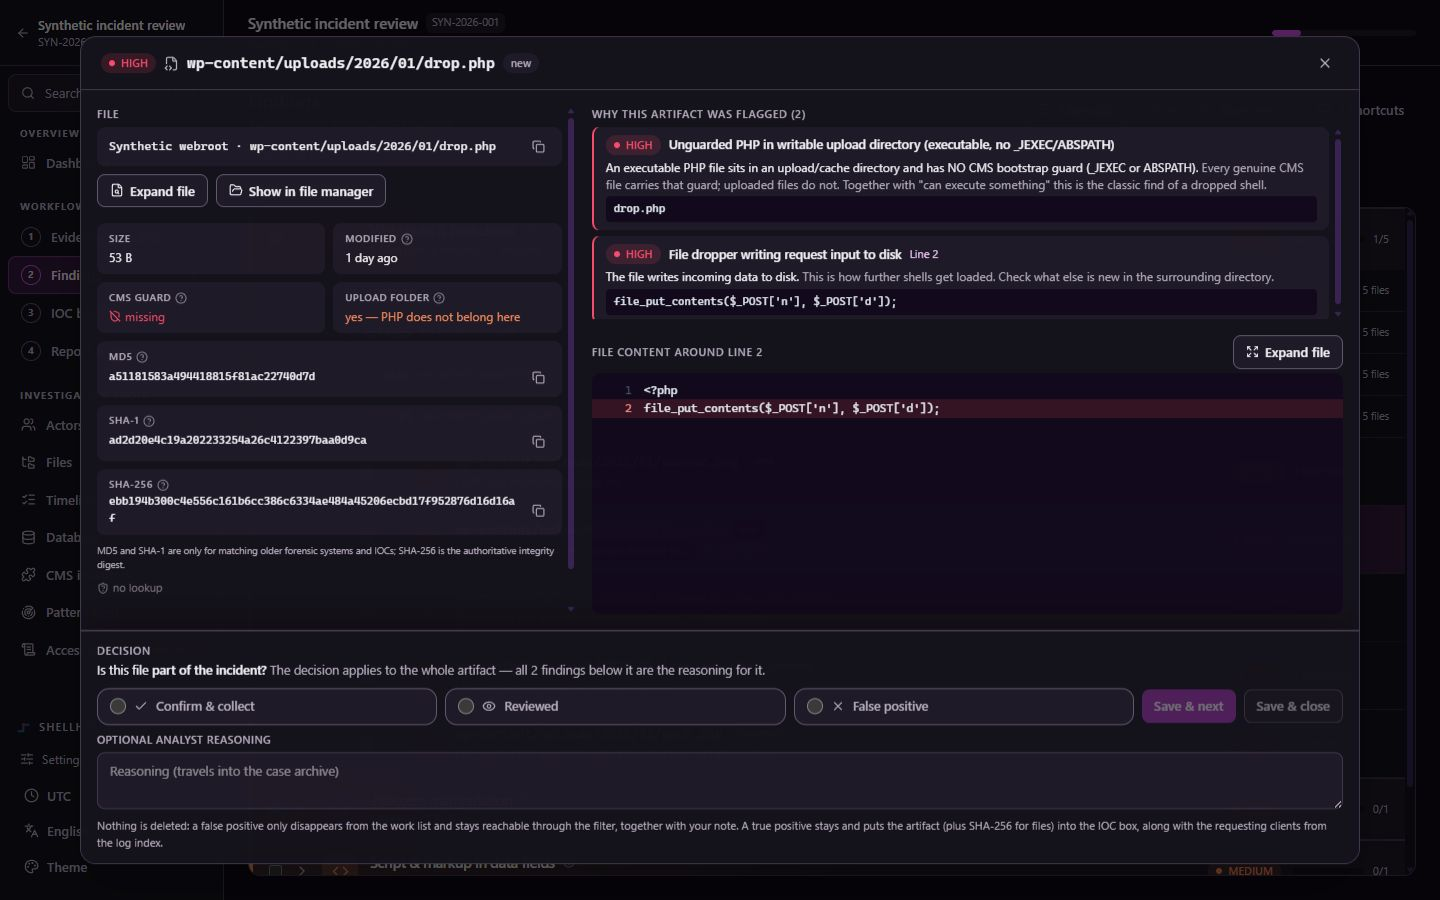
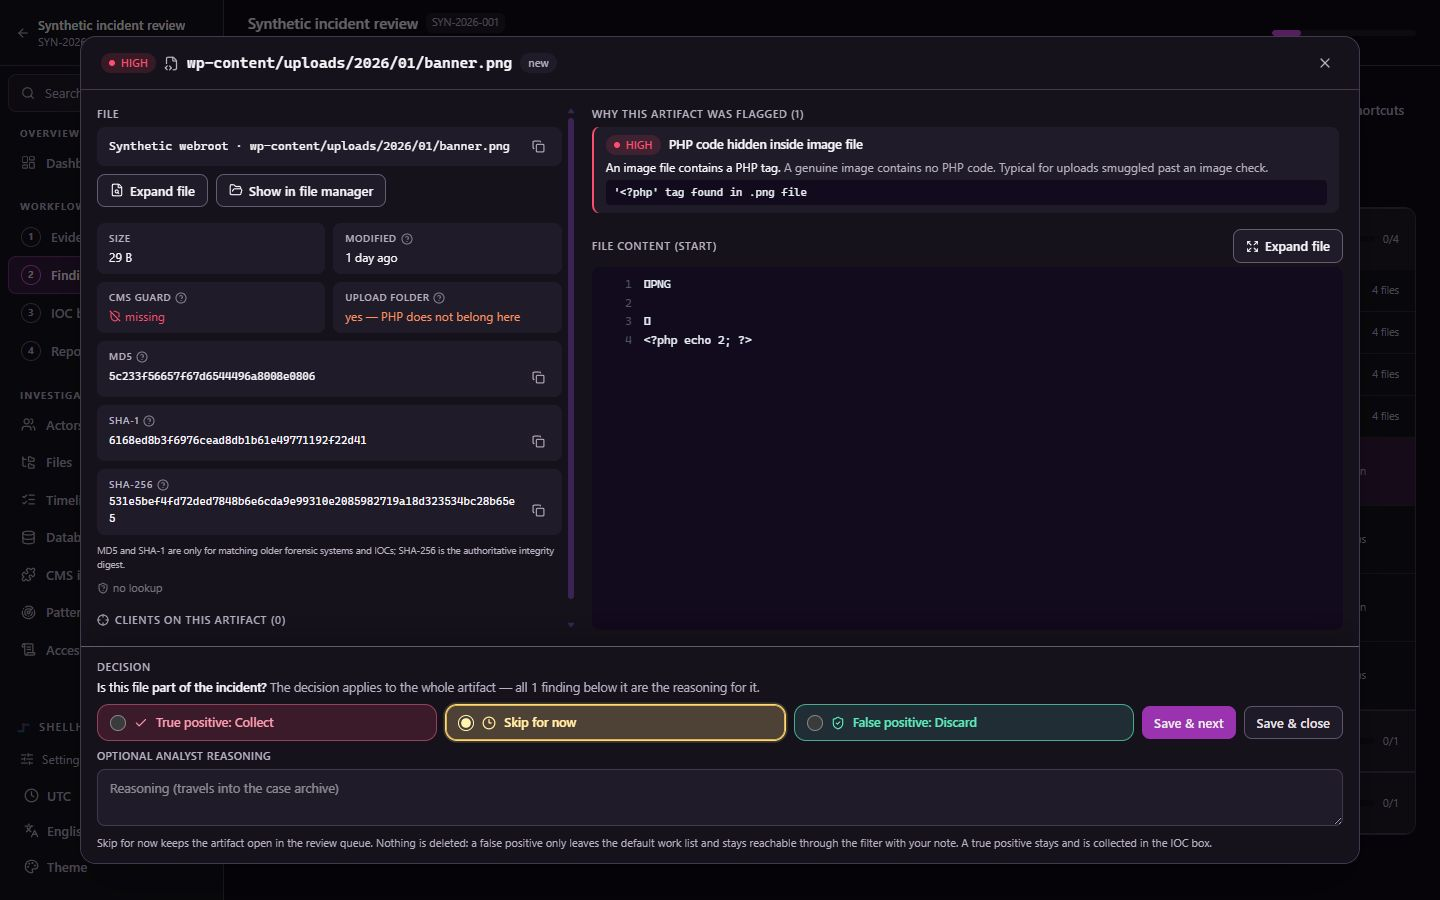
clarify artifact decision choices

diff --git a/web/src/i18n/de.ts b/web/src/i18n/de.ts
@@ -220,7 +220,7 @@ export const de: Record<string, string> = {
   'dashboard.action.evidence.sub': 'Quellen registrieren und die erste Analyse starten.',
   'dashboard.action.new': '{n} neue Artefakte prüfen',
   'dashboard.action.new.sub': 'Mit noch nicht gesichteten Hinweisen beginnen.',
-  'dashboard.action.reviewed': '{n} gesichtete Artefakte entscheiden',
+  'dashboard.action.reviewed': '{n} übersprungene Artefakte entscheiden',
   'dashboard.action.reviewed.sub': 'Offene Bewertungen zu einer endgültigen Entscheidung führen.',
   'dashboard.action.report': 'Bericht erstellen und abschließen',
   'dashboard.action.report.sub': 'Abschlussreife prüfen und die Übergabedatei vorbereiten.',
@@ -358,12 +358,12 @@ export const de: Record<string, string> = {
 
   // --- triage --------------------------------------------------------------
   'triage.new': 'neu',
-  'triage.reviewed': 'gesichtet',
+  'triage.reviewed': 'vorerst übersprungen',
   'triage.confirmed': 'True Positive',
   'triage.dismissed': 'False Positive',
   'triage.new.what': 'Noch niemand hat sich dieses Artefakt angesehen.',
-  'triage.reviewed.what': 'Angesehen, aber noch nicht entschieden.',
-  'triage.reviewed.why': 'Für alles, was später mit mehr Kontext nochmal zu beurteilen ist.',
+  'triage.reviewed.what': 'Angesehen, aber bewusst offengelassen.',
+  'triage.reviewed.why': 'Für Artefakte, die du später mit mehr Kontext erneut beurteilen möchtest.',
   'triage.confirmed.what': 'True Positive — das Artefakt ist real und Teil des Vorfalls.',
   'triage.confirmed.why': 'Bleibt in der Liste stehen, nur abgeblendet: es ist das Ergebnis, aus dem der Bericht entsteht. Legt Artefakt und Hash in die IOC Box und holt die anfragenden Clients aus dem Log-Index.',
   'triage.dismissed.what': 'False Positive — geprüft und nicht relevant.',
@@ -1066,11 +1066,11 @@ export const de: Record<string, string> = {
   'artifact.question.scope': 'Die Entscheidung gilt für das ganze Artefakt — alle {n} {findings} darunter sind die Begründung dafür.',
   'artifact.finding.one': 'Finding',
   'artifact.finding.many': 'Findings',
-  'artifact.truePositiveCollect': 'Bestätigen & sammeln',
-  'artifact.reviewedAction': 'Geprüft',
-  'artifact.falsePositiveAction': 'False Positive',
+  'artifact.truePositiveCollect': 'True Positive: Sammeln',
+  'artifact.reviewedAction': 'Vorerst überspringen',
+  'artifact.falsePositiveAction': 'False Positive: Verwerfen',
   'artifact.lastDecided': 'zuletzt entschieden',
-  'artifact.triage.explain': 'Nichts wird gelöscht: ein False Positive verschwindet nur aus der Arbeitsliste und bleibt mit deiner Notiz über den Filter erreichbar. True Positive bleibt stehen und legt das Artefakt (+ SHA-256 bei Dateien) in die IOC Box, samt der anfragenden Clients aus dem Log-Index.',
+  'artifact.triage.explain': 'Vorerst überspringen lässt das Artefakt offen in der Prüfliste. Nichts wird gelöscht: ein False Positive verlässt nur die Standard-Arbeitsliste und bleibt mit deiner Notiz über den Filter erreichbar. Ein True Positive bleibt stehen und wird in der IOC Box gesammelt.',
   'artifact.viewFile': 'Datei ansehen (Raw & Hex)',
   'artifact.expandFile': 'Datei vergrößern',
   'artifact.backToEvidence': 'Zurück zu den Belegen',
@@ -1178,12 +1178,12 @@ export const de: Record<string, string> = {
   'files.review.title': 'Manuelle Datei-Sichtung',
   'files.review.sub': 'Prüfe Dateiinhalt, Hashes und Dateisystem-Metadaten Datei für Datei. Vorhandene Scanner-Beobachtungen bleiben als Kontext sichtbar.',
   'files.metric.files': 'Dateien hier',
-  'files.metric.reviewed': 'gesichtet',
+  'files.metric.reviewed': 'übersprungen',
   'files.metric.webshells': 'Webshells',
   'files.queue.title': 'Dateien in diesem Ordner',
   'files.queue.open': '{name} prüfen. Aktueller Status: {state}',
   'files.review.unreviewed': 'Ungesichtet',
-  'files.review.reviewed': 'Gesichtet',
+  'files.review.reviewed': 'Vorerst übersprungen',
   'files.review.webshell': 'Webshell',
   'files.review.notWebshell': 'Keine Webshell',
   'files.review.select': 'Datei zum Prüfen auswählen',
@@ -1210,7 +1210,7 @@ export const de: Record<string, string> = {
   'files.decision.title': 'Analystenentscheidung',
   'files.decision.sub': 'Die Entscheidung wird getrennt von automatischen Erkennungen gespeichert und bleibt im Fall nachvollziehbar.',
   'files.decision.note': 'Begründung und beobachtete Evidenz…',
-  'files.decision.reviewed': 'Gesichtet — offen lassen',
+  'files.decision.reviewed': 'Vorerst übersprungen — offen lassen',
   'files.decision.notWebshell': 'Keine Webshell',
   'files.decision.webshell': 'Als Webshell markieren',
   'files.decision.reasonRequired': 'Für eine abschließende Entscheidung ist eine Begründung erforderlich.',

diff --git a/web/src/components/ArtifactWindow.tsx b/web/src/components/ArtifactWindow.tsx
@@ -8,8 +8,8 @@ import { useEffect, useRef, useState } from 'react'
 import { useMutation, useQuery } from '@tanstack/react-query'
 import clsx from 'clsx'
 import {
-  ArrowLeft, Bug, Check, Crosshair, Eye, Expand, FileSearch, FolderOpen,
-  LoaderCircle, ShieldCheck, ShieldOff, X,
+  ArrowLeft, Bug, Check, Clock3, Crosshair, Expand, FileSearch, FolderOpen,
+  LoaderCircle, ShieldCheck, ShieldOff,
 } from 'lucide-react'
 import { KIND_ICON } from '../artifactKinds'
 import {
@@ -451,13 +451,26 @@ export function ArtifactWindow({ slug, artifact, roots, collected, onClose,
     )}
   </>
 
-  const decisions: Array<{ state: Decision; label: string; icon: typeof Check; selected: string }> = [
+  const decisions: Array<{
+    state: Decision
+    label: string
+    icon: typeof Check
+    tone: string
+    text: string
+    background: string
+    selectedBackground: string
+  }> = [
     { state: 'confirmed', label: tr('artifact.truePositiveCollect'), icon: Check,
-      selected: 'border-[var(--incident)] bg-[var(--danger-soft)] text-[var(--danger-text)]' },
-    { state: 'reviewed', label: tr('artifact.reviewedAction'), icon: Eye,
-      selected: 'border-[var(--sev-low)] bg-[var(--review-soft)] text-[var(--review-text)]' },
-    { state: 'dismissed', label: tr('artifact.falsePositiveAction'), icon: X,
-      selected: 'border-[var(--accent)] bg-[var(--panel-raised)] text-[var(--fg)]' },
+      tone: 'var(--incident)', text: 'var(--danger-text)',
+      background: 'var(--danger-soft)', selectedBackground: 'var(--danger-soft-hover)' },
+    { state: 'reviewed', label: tr('artifact.reviewedAction'), icon: Clock3,
+      tone: 'var(--sev-low)', text: 'var(--review-text)',
+      background: 'var(--review-soft)',
+      selectedBackground: 'color-mix(in srgb, var(--sev-low) 20%, var(--panel-2))' },
+    { state: 'dismissed', label: tr('artifact.falsePositiveAction'), icon: ShieldCheck,
+      tone: 'var(--ok)', text: 'color-mix(in srgb, var(--ok) 76%, var(--fg))',
+      background: 'color-mix(in srgb, var(--ok) 9%, var(--panel-2))',
+      selectedBackground: 'color-mix(in srgb, var(--ok) 18%, var(--panel-2))' },
   ]
 
   return (
@@ -543,18 +556,28 @@ export function ArtifactWindow({ slug, artifact, roots, collected, onClose,
           <div className="flex flex-wrap items-center gap-2">
             <div role="radiogroup" aria-label={tr('artifact.decision.title')}
               className="flex flex-1 flex-wrap gap-2">
-              {decisions.map(({ state: option, label, icon: DecisionIcon, selected }) => (
+              {decisions.map(({ state: option, label, icon: DecisionIcon, tone, text,
+                                background, selectedBackground }) => (
                 <label key={option} className={clsx(
-                  'flex min-w-[9rem] flex-1 cursor-pointer items-center gap-2 rounded-xl border px-3 py-2 text-[12.5px] font-semibold transition-colors',
-                  draftDecision === option
-                    ? selected
-                    : 'border-[var(--line-strong)] bg-[var(--panel-2)] text-[var(--muted)] hover:text-[var(--fg)]',
-                  controlsDisabled && 'cursor-not-allowed opacity-50')}>
+                  'flex min-w-[9rem] flex-1 cursor-pointer items-center gap-2 rounded-xl border px-3 py-2 text-[12.5px] font-semibold transition-[border-color,background-color,color,box-shadow,filter]',
+                  !controlsDisabled && 'hover:brightness-110',
+                  controlsDisabled && 'cursor-not-allowed opacity-50')}
+                  style={{
+                    borderColor: draftDecision === option
+                      ? tone
+                      : `color-mix(in srgb, ${tone} 58%, var(--line-strong))`,
+                    background: draftDecision === option ? selectedBackground : background,
+                    color: text,
+                    boxShadow: draftDecision === option
+                      ? `inset 0 0 0 1px ${tone}, 0 0 0 2px color-mix(in srgb, ${tone} 22%, transparent)`
+                      : undefined,
+                  }}>
                   <input type="radio" name={`artifact-decision-${artifact.artifact}`}
                     value={option} checked={draftDecision === option}
                     disabled={controlsDisabled}
                     onChange={() => setDraftDecision(option)}
-                    className="h-4 w-4 shrink-0 accent-[var(--accent)]" />
+                    style={{ accentColor: tone }}
+                    className="h-4 w-4 shrink-0" />
                   <DecisionIcon size={14} /> {label}
                 </label>
               ))}

diff --git a/web/src/i18n/en.ts b/web/src/i18n/en.ts
@@ -225,7 +225,7 @@ export const en: Record<string, string> = {
   'dashboard.action.evidence.sub': 'Register sources and run the first analysis.',
   'dashboard.action.new': 'Review {n} new artifacts',
   'dashboard.action.new.sub': 'Start with unreviewed evidence.',
-  'dashboard.action.reviewed': 'Decide {n} reviewed artifacts',
+  'dashboard.action.reviewed': 'Decide {n} skipped artifacts',
   'dashboard.action.reviewed.sub': 'Resolve items that still need a final judgement.',
   'dashboard.action.report': 'Build report and close',
   'dashboard.action.report.sub': 'Check readiness and prepare the hand-off file.',
@@ -363,12 +363,12 @@ export const en: Record<string, string> = {
 
   // --- triage --------------------------------------------------------------
   'triage.new': 'new',
-  'triage.reviewed': 'reviewed',
+  'triage.reviewed': 'skipped for now',
   'triage.confirmed': 'true positive',
   'triage.dismissed': 'false positive',
   'triage.new.what': 'Nobody has looked at this artifact yet.',
-  'triage.reviewed.what': 'Looked at, not yet decided.',
-  'triage.reviewed.why': 'For everything you want to judge again later with more context.',
+  'triage.reviewed.what': 'Looked at, but intentionally left open.',
+  'triage.reviewed.why': 'Use this when you want to judge the artifact again later with more context.',
   'triage.confirmed.what': 'True positive — the artifact is real and part of the incident.',
   'triage.confirmed.why': 'Stays in the list, only dimmed: it is the result the report is built from. Puts artifact and hash into the IOC box and pulls the requesting clients from the log index.',
   'triage.dismissed.what': 'False positive — checked and not relevant.',
@@ -1071,11 +1071,11 @@ export const en: Record<string, string> = {
   'artifact.question.scope': 'The decision applies to the whole artifact — all {n} {findings} below it are the reasoning for it.',
   'artifact.finding.one': 'finding',
   'artifact.finding.many': 'findings',
-  'artifact.truePositiveCollect': 'Confirm & collect',
-  'artifact.reviewedAction': 'Reviewed',
-  'artifact.falsePositiveAction': 'False positive',
+  'artifact.truePositiveCollect': 'True positive: Collect',
+  'artifact.reviewedAction': 'Skip for now',
+  'artifact.falsePositiveAction': 'False positive: Discard',
   'artifact.lastDecided': 'last decided',
-  'artifact.triage.explain': 'Nothing is deleted: a false positive only disappears from the work list and stays reachable through the filter, together with your note. A true positive stays and puts the artifact (plus SHA-256 for files) into the IOC box, along with the requesting clients from the log index.',
+  'artifact.triage.explain': 'Skip for now keeps the artifact open in the review queue. Nothing is deleted: a false positive only leaves the default work list and stays reachable through the filter with your note. A true positive stays and is collected in the IOC box.',
   'artifact.viewFile': 'View file (raw & hex)',
   'artifact.expandFile': 'Expand file',
   'artifact.backToEvidence': 'Back to evidence',
@@ -1183,12 +1183,12 @@ export const en: Record<string, string> = {
   'files.review.title': 'Manual file review',
   'files.review.sub': 'Inspect file content, hashes and filesystem metadata one file at a time. Existing scanner observations remain available as context.',
   'files.metric.files': 'files here',
-  'files.metric.reviewed': 'reviewed',
+  'files.metric.reviewed': 'skipped',
   'files.metric.webshells': 'webshells',
   'files.queue.title': 'Files in this folder',
   'files.queue.open': 'Review {name}. Current state: {state}',
   'files.review.unreviewed': 'Unreviewed',
-  'files.review.reviewed': 'Reviewed',
+  'files.review.reviewed': 'Skipped for now',
   'files.review.webshell': 'Webshell',
   'files.review.notWebshell': 'Not a webshell',
   'files.review.select': 'Select a file to review',
@@ -1215,7 +1215,7 @@ export const en: Record<string, string> = {
   'files.decision.title': 'Analyst decision',
   'files.decision.sub': 'The decision is stored separately from automatic detection and remains auditable in the case.',
   'files.decision.note': 'Reason and observed evidence…',
-  'files.decision.reviewed': 'Reviewed — keep open',
+  'files.decision.reviewed': 'Skipped for now — keep open',
   'files.decision.notWebshell': 'Not a webshell',
   'files.decision.webshell': 'Mark as webshell',
   'files.decision.reasonRequired': 'A reason is required for a final decision.',

diff --git a/web/src/components/ArtifactWindow.test.tsx b/web/src/components/ArtifactWindow.test.tsx
@@ -110,9 +110,9 @@ describe('the note box', () => {
     mount()
 
     await waitFor(() =>
-      expect(screen.getByRole('radio', { name: /Confirm & collect/i })).toBeEnabled())
-    expect(screen.getByRole('radio', { name: 'Reviewed' })).toBeEnabled()
-    expect(screen.getByRole('radio', { name: 'False positive' })).toBeEnabled()
+      expect(screen.getByRole('radio', { name: /True positive: Collect/i })).toBeEnabled())
+    expect(screen.getByRole('radio', { name: 'Skip for now' })).toBeEnabled()
+    expect(screen.getByRole('radio', { name: 'False positive: Discard' })).toBeEnabled()
   })
 
   it('shows the note the server has, not the empty one the caller passed', async () => {
@@ -136,7 +136,7 @@ describe('the note box', () => {
     const { onSave } = mount(stub({ triage_note: '' }))
     await waitFor(() => expect(noteBox().value).toBe('confirmed by hash'))
 
-    await userEvent.click(screen.getByRole('radio', { name: /Confirm & collect/i }))
+    await userEvent.click(screen.getByRole('radio', { name: /True positive: Collect/i }))
     expect(onSave).not.toHaveBeenCalled()
     await userEvent.click(screen.getByRole('button', { name: 'Save decision' }))
     expect(onSave).toHaveBeenCalledWith('confirmed', 'confirmed by hash')
@@ -194,14 +194,14 @@ describe('the note box', () => {
     rerender(window_(stub({ artifact: other })))
     expect(noteBox().value).toBe('')
     expect(noteBox()).toBeDisabled()
-    expect(screen.getByRole('radio', { name: /Confirm & collect/i })).toBeDisabled()
+    expect(screen.getByRole('radio', { name: /True positive: Collect/i })).toBeDisabled()
 
     await act(async () => {
       release?.(context({ artifact: other, triage_note: 'its own note' }))
     })
     await waitFor(() => expect(noteBox().value).toBe('its own note'))
     expect(noteBox()).toBeEnabled()
-    expect(screen.getByRole('radio', { name: /Confirm & collect/i })).toBeEnabled()
+    expect(screen.getByRole('radio', { name: /True positive: Collect/i })).toBeEnabled()
   })
 })
 
@@ -210,8 +210,8 @@ describe('deliberate decision submission', () => {
     vi.mocked(api).mockResolvedValue(context({ triage_note: 'initial note' }))
     const { onSave, onSavedNext } = mount(stub(), true)
 
-    const confirmed = await screen.findByRole('radio', { name: /Confirm & collect/i })
-    const reviewed = screen.getByRole('radio', { name: 'Reviewed' })
+    const confirmed = await screen.findByRole('radio', { name: /True positive: Collect/i })
+    const reviewed = screen.getByRole('radio', { name: 'Skip for now' })
     await userEvent.click(confirmed)
     await userEvent.click(reviewed)
 
@@ -236,7 +236,7 @@ describe('deliberate decision submission', () => {
     const onClose = vi.fn()
     renderWithProviders(window_(stub(), onSave, undefined, onClose), testQueryClient())
 
-    await userEvent.click(await screen.findByRole('radio', { name: 'Reviewed' }))
+    await userEvent.click(await screen.findByRole('radio', { name: 'Skip for now' }))
     await userEvent.click(screen.getByRole('button', { name: 'Save & close' }))
     expect(onClose).not.toHaveBeenCalled()
 
@@ -249,7 +249,7 @@ describe('deliberate decision submission', () => {
     const { onSave } = mount()
     onSave.mockRejectedValueOnce(new Error('local request failed'))
 
-    const dismissed = await screen.findByRole('radio', { name: 'False positive' })
+    const dismissed = await screen.findByRole('radio', { name: 'False positive: Discard' })
     await userEvent.click(dismissed)
     await userEvent.type(noteBox(), 'known maintenance helper')
     await userEvent.click(screen.getByRole('button', { name: 'Save decision' }))
@@ -313,7 +313,7 @@ describe('what the window states about the artifact', () => {
 
     expect(await screen.findByRole('button', { name: 'Back to evidence' })).toBeVisible()
     expect(await screen.findByText('safe text')).toBeVisible()
-    expect(screen.getByRole('radio', { name: 'Reviewed' })).toBeVisible()
+    expect(screen.getByRole('radio', { name: 'Skip for now' })).toBeVisible()
   })
 
   it('reveals explicitly and never starts enrichment on mount', async () => {

diff --git a/web/src/views/Findings.test.tsx b/web/src/views/Findings.test.tsx
@@ -126,7 +126,7 @@ describe('save-and-next Findings integration', () => {
   it('updates the artifact URL only after a successful save', async () => {
     renderWithProviders(<Findings slug="case-1" gotoView={vi.fn()} />)
 
-    await userEvent.click(await screen.findByRole('radio', { name: 'Reviewed' }))
+    await userEvent.click(await screen.findByRole('radio', { name: 'Skip for now' }))
     await userEvent.click(screen.getByRole('button', { name: 'Save & next' }))
 
     await waitFor(() => expect(new URL(location.href).searchParams.get('artifact'))
@@ -141,7 +141,7 @@ describe('save-and-next Findings integration', () => {
       '/?case=case-1&view=findings&search=client&artifact=client-two')
     renderWithProviders(<Findings slug="case-1" gotoView={vi.fn()} />)
 
-    await userEvent.click(await screen.findByRole('radio', { name: 'Reviewed' }))
+    await userEvent.click(await screen.findByRole('radio', { name: 'Skip for now' }))
     await userEvent.click(screen.getByRole('button', { name: 'Save & next' }))
 
     await waitFor(() => expect(new URL(location.href).searchParams.get('artifact')).toBeNull())

diff --git a/CHANGELOG.md b/CHANGELOG.md
@@ -21,6 +21,10 @@ All notable changes to SHELLHOUND. Format after
   workspace adds inert expandable previews, guarded file-manager reveal and
   explicit **Save & next** / **Save & close** decisions without changing triage
   meanings, payloads, exports or enrichment safeguards.
+- Clarified the artifact verdict choices as **True positive: Collect**,
+  **Skip for now**, and **False positive: Discard**, with persistent incident,
+  caution, and safe color cues. The middle choice retains the existing
+  `reviewed` state and deliberately leaves the artifact open for later review.
 
 ### Added — investigation workbench workflow
 
